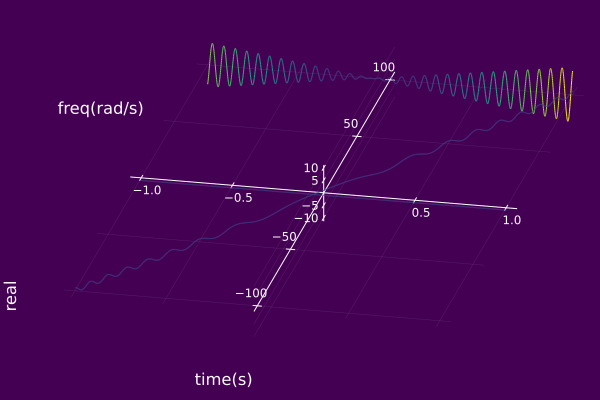
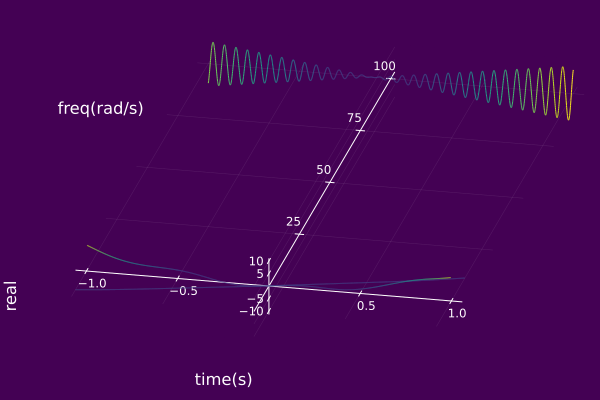
updated model example

diff --git a/docs/src/basicModels/AMFM.md b/docs/src/basicModels/AMFM.md
@@ -25,7 +25,7 @@ can be visualized.
 
 
 ### Example 1
-For a this choice of parameters of the component set, we have the following Argand Diagram for $z(t;\mathscr{S})$, 3D IS $\mathcal{S}(t,\omega,s;\mathscr{S})$, and 2D IS $\mathcal{S}(t,\omega;\mathscr{S})$. Keep in mind, we are only considering a finite number of components $k = 0,\pm 1,\pm 2,\ldots,K$ not $k = 0,\pm 1,\pm2,\ldots,\pm\infty$.
+For a this choice of parameters of the component set, we have the following Argand Diagram for $z(t;\mathscr{S})$, 3D IS $\mathcal{S}(t,\omega,s;\mathscr{S})$, and 2D IS $\mathcal{S}(t,\omega;\mathscr{S})$.
 
 ```julia
 using ISA, Plots
@@ -66,13 +66,13 @@ plot!( camera=(0,90),
 
 ### Example 2
 
-For another choice of parameters of the component set, we have the following Argand Diagram for $z(t;\mathscr{S})$, 3D IS $\mathcal{S}(t,\omega,s;\mathscr{S})$, and 2D IS $\mathcal{S}(t,\omega;\mathscr{S})$. Keep in mind, we are only considering a finite number of components $k = 0,\pm 1,\pm 2,\ldots,K$ not $k = 0,\pm 1,\pm2,\ldots,\pm\infty$.
+For another choice of parameters of the component set, we have the following Argand Diagram for $z(t;\mathscr{S})$, 3D IS $\mathcal{S}(t,\omega,s;\mathscr{S})$, and 2D IS $\mathcal{S}(t,\omega;\mathscr{S})$.
 
 ```julia
 using ISA, Plots
 𝐶₀ = AMFMtriplet(t->exp(0.01t^2)+10t,t->100.0,0.0)
-𝐶₁ = AMFMtriplet(t->1.0,t->t^2+100t,0.1)
-𝐶₂ = AMFMtriplet(t->cos(0.1t),t->sin(0.1t),π)
+𝐶₁ = AMFMtriplet(t->0.1,t->t^2+10t,0.1)
+𝐶₂ = AMFMtriplet(t->-10t^2,t->sin(10t),π)
 𝑆 = compSet([𝐶₀,𝐶₁,𝐶₂])
 z = AMFMmodel(𝑆)
 plot(z; timeaxis=0.0:0.001:3.0)
@@ -82,8 +82,8 @@ plot(z; timeaxis=0.0:0.001:3.0)
 ```julia
 using ISA, Plots
 𝐶₀ = AMFMtriplet(t->exp(0.01t^2)+10t,t->100.0,0.0)
-𝐶₁ = AMFMtriplet(t->1.0,t->t^2+100t,0.1)
-𝐶₂ = AMFMtriplet(t->cos(0.1t),t->sin(0.1t),π)
+𝐶₁ = AMFMtriplet(t->0.1,t->t^2+10t,0.1)
+𝐶₂ = AMFMtriplet(t->-10t^2,t->sin(10t),π)
 𝑆 = compSet([𝐶₀,𝐶₁,𝐶₂])
 z = AMFMmodel(𝑆)
 plot(𝑆; timeaxis=-1.0:0.001:1.0)
@@ -93,8 +93,8 @@ plot(𝑆; timeaxis=-1.0:0.001:1.0)
 ```julia
 using ISA, Plots
 𝐶₀ = AMFMtriplet(t->exp(0.01t^2)+10t,t->100.0,0.0)
-𝐶₁ = AMFMtriplet(t->1.0,t->t^2+100t,0.1)
-𝐶₂ = AMFMtriplet(t->cos(0.1t),t->sin(0.1t),π)
+𝐶₁ = AMFMtriplet(t->0.1,t->t^2+10t,0.1)
+𝐶₂ = AMFMtriplet(t->-10t^2,t->sin(10t),π)
 𝑆 = compSet([𝐶₀,𝐶₁,𝐶₂])
 z = AMFMmodel(𝑆)
 plot(𝑆; timeaxis=-1.0:0.001:1.0)
@@ -107,7 +107,7 @@ plot!( camera=(0,90),
 
 
 ### Example 3
-For another choice of parameters of the component set, we have the following Argand Diagram for $z(t;\mathscr{S})$, 3D IS $\mathcal{S}(t,\omega,s;\mathscr{S})$, and 2D IS $\mathcal{S}(t,\omega;\mathscr{S})$. Keep in mind, we are only considering a finite number of components $k = 0,\pm 1,\pm 2,\ldots,K$ not $k = 0,\pm 1,\pm2,\ldots,\pm\infty$.
+For another choice of parameters of the component set, we have the following Argand Diagram for $z(t;\mathscr{S})$, 3D IS $\mathcal{S}(t,\omega,s;\mathscr{S})$, and 2D IS $\mathcal{S}(t,\omega;\mathscr{S})$.
 
 ```julia
 using ISA, Plots
